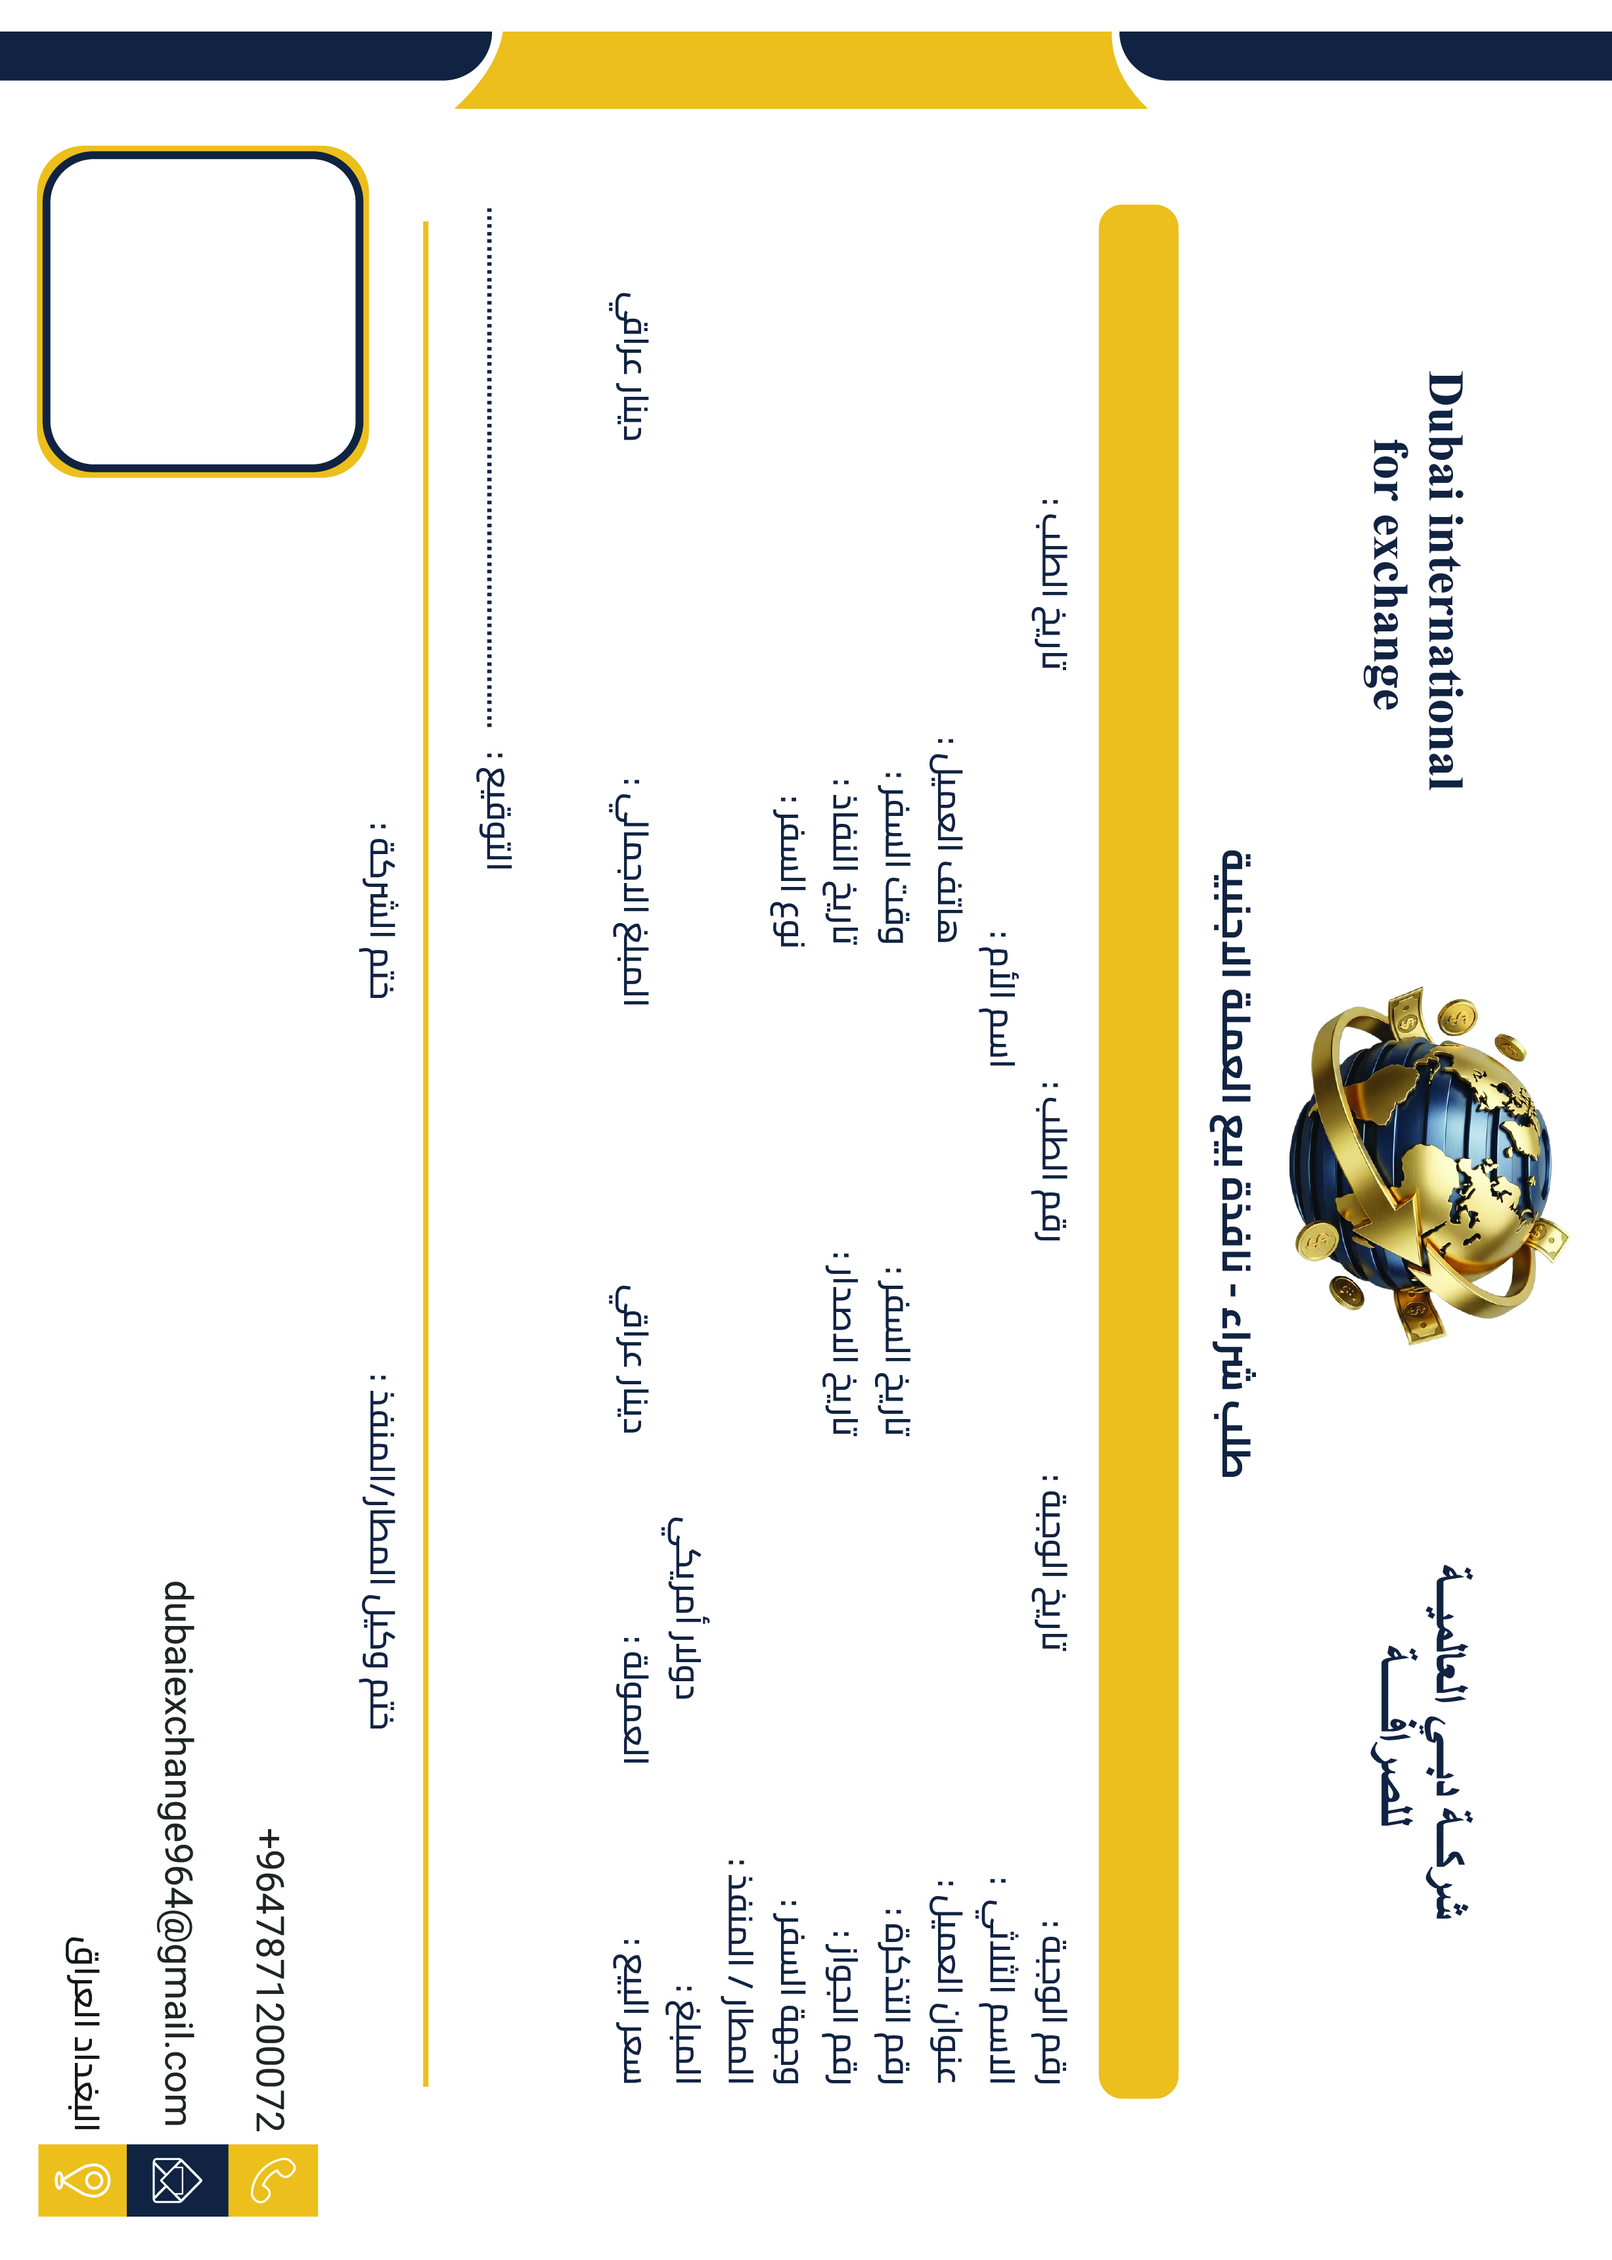
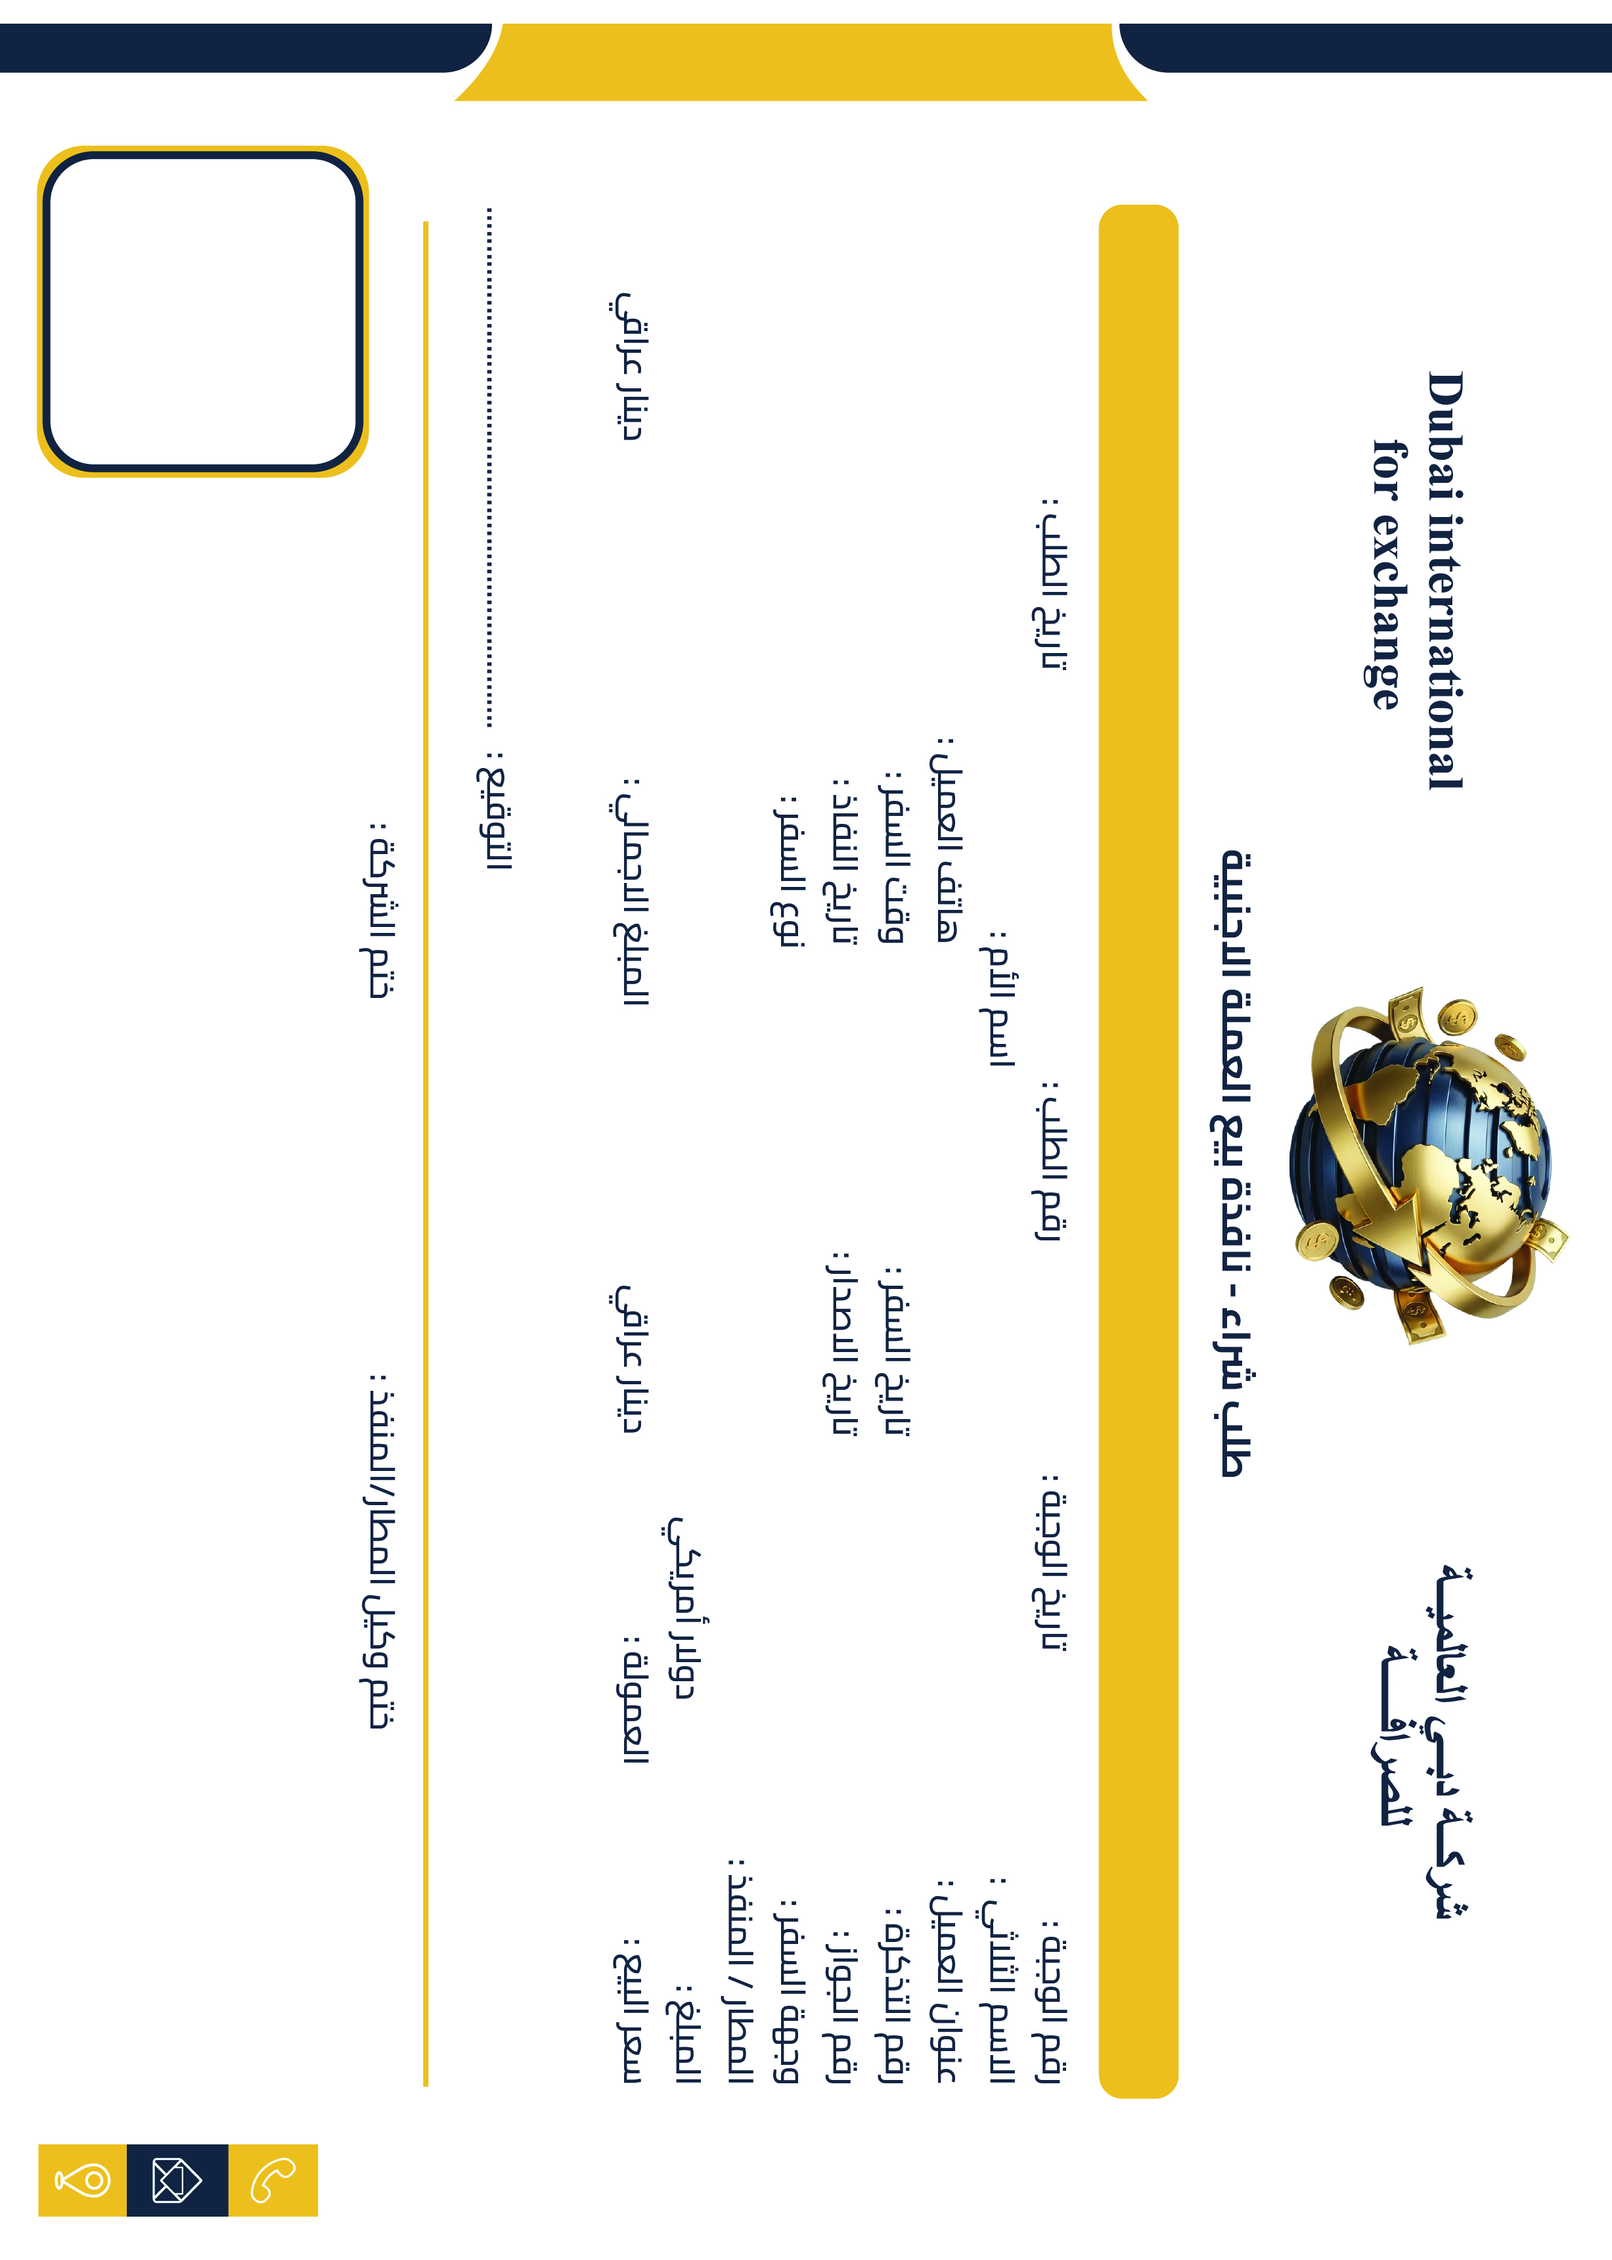
test

diff --git a/frontend/src/components/admin/orders/ReceiptConfigs.js b/frontend/src/components/admin/orders/ReceiptConfigs.js
@@ -104,7 +104,7 @@ export const RECEIPT_CONFIGS = {
         template: '/assets/receipts/traveler_recu.jpg',
         // تم التحديث بواسطة ReceiptCoordinatePicker
         fields: (order, admin_data, customer, details, formatDate, contactInfo, airportNameOrBorder) => [
-            { id: 'dynamic_title', value: airportNameOrBorder, x: 70.8, y: 54.9, center: true, color: '#fff', fontSize: 17 },
+            { id: 'dynamic_title', value: airportNameOrBorder, x: 70.7, y: 51.5, center: true, color: '#fff', fontSize: 17 },
             { id: 'outlet_title', value: details?.pickupLocationName || admin_data?.travel_agency || 'وكيل المطار', x: 80.4, y: 16.6, width: '40%', center: true, color: '#fff', fontSize: 17, height: '30px' },
             { id: 'batch_number', value: admin_data?.batch_number, x: 67.1, y: 83.7, width: '4%', fontSize: 17 },
             { id: 'batch_date', value: admin_data?.batch_date, x: 70.2, y: 62, width: '10%', fontSize: 17 },
@@ -120,7 +120,7 @@ export const RECEIPT_CONFIGS = {
             { id: 'passport_number', value: admin_data?.passport_number, x: 59.2, y: 80, width: '15%', fontSize: 17 },
             { id: 'issue_date', value: admin_data?.passport_issue_date, x: 59.4, y: 50, width: '15%', fontSize: 17 },
             { id: 'expiry_date', value: admin_data?.passport_expiry_date, x: 59.6, y: 29.3, width: '15%', fontSize: 17 },
-            { id: 'destination', value: details?.destination, x: 58.6, y: 76.9, width: '20%', fontSize: 17 },
+            { id: 'destination', value: details?.destination, x: 59.3, y: 77.4, width: '20%', fontSize: 17 },
             { id: 'travel_type', value: details?.travelType === 'air' ? 'جوي' : (details?.travelType === 'land' ? 'بري' : 'بحري'), x: 53.7, y: 31.4, width: '10%', fontSize: 17 },
             { id: 'outlet_name', value: details?.pickupLocationName || admin_data?.travel_agency || 'وكيل المطار', x: 55.7, y: 75.1, width: '20%', fontSize: 17 },
             { id: 'amount_usd', value: parseFloat(details?.usdAmount || details?.amountUSD || 0).toLocaleString(), x: 47.6, y: 84, width: '10%', fontSize: 17 },
@@ -132,9 +132,9 @@ export const RECEIPT_CONFIGS = {
             { id: 'company_address', value: contactInfo?.ar?.address || contactInfo?.address, x: 12.9, y: 89.3, bold: true, fontSize: 17 },
         ],
         stamps: {
-            airport: { x: 17.4, y: 68.9, width: 250, height: 250, },
+            airport: { x: 17.4, y: 68.9, width: 350, height: 350, },
             signature: { x: 30.1, y: 23.8, width: 250, height: 120, },
-            company: { x: 16, y: 40, width: 250, height: 250, }
+            company: { x: 14, y: 40, width: 350, height: 350, }
         },
         qr: { x: 12.7, y: 12.9, size: 120 }
     },
